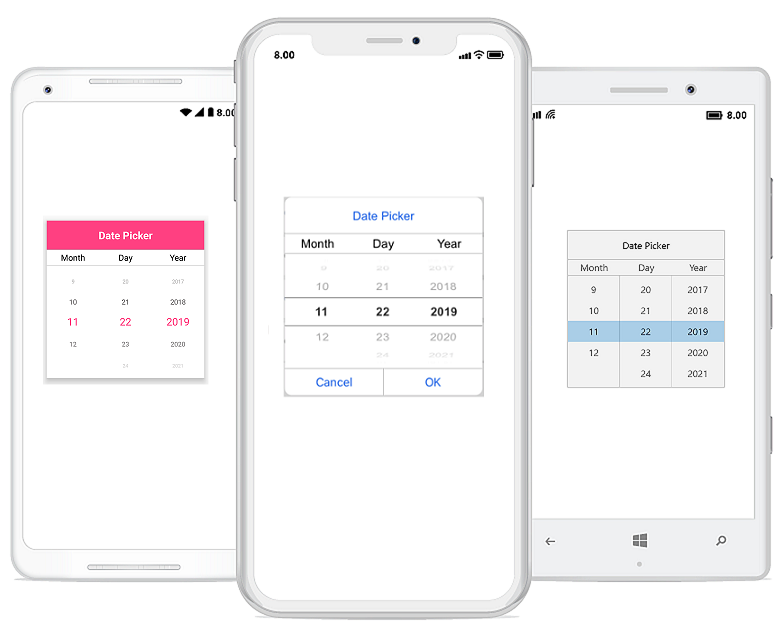
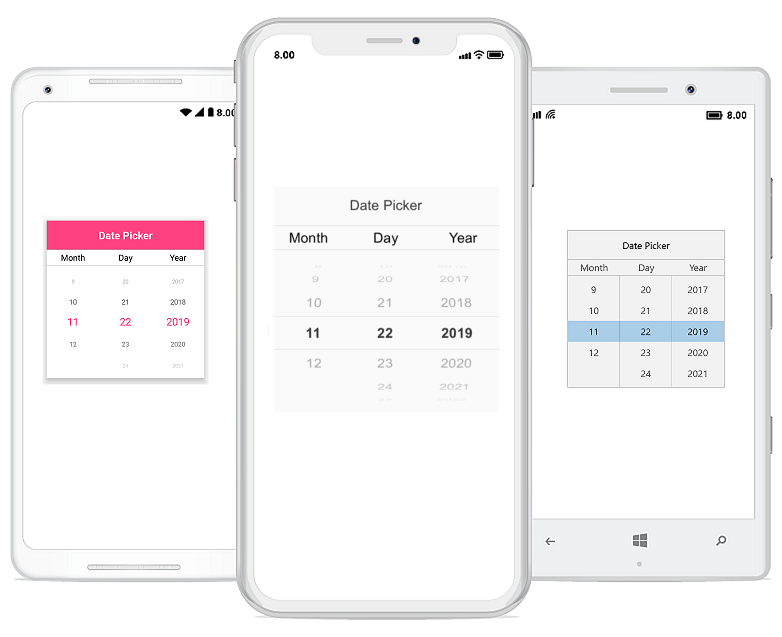
changes have committed

diff --git a/Xamarin/DatePicker/Overview.md b/Xamarin/DatePicker/Overview.md
@@ -11,26 +11,12 @@ documentation: ug
 
 The DatePicker control allows you to select a date among a list of dates. This control can be opened as dialog. Its rich feature set includes functionalities such as date range, date format, header, footer, and default validation buttons.
 
+![OverView of SfDatePicker](images/GettingStatrted_DatePicker.png)
+
 ## Key features of SfDatePicker
 
-* MinimumDate — This is the lowest date selectable for this DatePicker. The default value of the MinimumDate is the first day of 25 years prior to the current year.
-* MaximumDate — This is the highest date selectable for this DatePicker. The default value of the MaximumDate is the first day of 25 years above the current year.
-* Date — This is a selected date. The default value of the Date is the current date.
-* Format — The format of the date to display to the user. It is standard or custom. The default date format is "DateFormat.M_d_yyyy".
-* SelectedItemTextColor — The color used to display the selected date.
-* SelectedItemFontAttribute — The user can apply different font attributes to the selected date using this property. The default value of the SelectedItemFontAttribute is "None".
-* SelectedItemFontFamily — The user can apply different font family to the selected date using this property. The default value of the SelectedItemFontFamily is "null".
-* SelectedItemFontSize — The user can apply different font sizes to the selected date using this property. The default value of the SelectedItemFontSize for android is "20.0d", with other platforms being "18.0d".
-* SelectionBackgroundColor — The user can apply different background colors to the selected item using this property.
-* UnselectedItemTextColor — The color used to display the unselected dates.
-* UnselectedItemFontAttribute — The user can apply different font attributes to the unselected dates using this property. The default value of the UnselectedItemFontAttribute is "None".
-* UnselectedItemFontFamily — The user can apply different font family to the unselected dates using this property. The default value of the UnselectedItemFontFamily is "null".
-* UnselectedItemFontSize — The user can apply different font sizes to the unselected dates using this property. The default value of the UnselectedItemFontSize for android is "16.0d", with other platforms being "18.0d".
-* Header customization — Complete customization options for the header such as background color, text color, font size, font attribute, and font family.
-* Footer customization — Complete customization options for the footer's OK and Cancel buttons such as background color, and text color.
-* Column header customization — Complete customization options for the column header such as background color, text color, font size, font attribute, and font family.
-* PickerMode — DatePicker can be rendered as a dialog. Default value of the PickerMode property is "Default".
+* Provides customization for header, footer, column header, color, and font.
+* Provides the date restriction support.
+* Provides the support for the format of the date to be displayed.
+* Provides the support for the DatePicker in dialog.
 
-The following screenshot illustrates picker’s color selection. 
-
-![OverView of SfDatePicker](images/GettingStatrted_DatePicker.png)

diff --git a/Xamarin/TimePicker/Overview.md b/Xamarin/TimePicker/Overview.md
@@ -11,26 +11,12 @@ documentation: ug
 
 The TimePicker control allows you to select a list of time. This control can be opened as dialog. Its rich feature set includes functionalities such as time format, header, footer, and default validation buttons.
 
+![OverView of SfTimePicker](images/GettingStarted_TimePicker.png)
+
 ## Key features of SfTimePicker
 
+* Provides customization for header, footer, column header, color, and font.
+* Provides the support for an interval between hours, minutes, and seconds.
+* Provides the support for the format of the time to be displayed.
+* Provides the support for the TimePicker in dialog.
 
-* Time — This is a selected time. The default value of the Time is the current time.
-* Format — The format of the time to display to the user. It is standard or custom. The default time format is "TimeFormat.HH_mm_ss".
-* HourInterval — Provides interval between hours.
-* MinuteInterval — Provides interval between minutes.
-* SecondInterval — Provides interval between seconds.
-* SelectedItemTextColor — The color used to display the selected time. 
-* SelectedItemFontAttribute — The user can apply different font attributes to the selected time using this property. The default value of the SelectedItemFontAttribute is "None".
-* SelectedItemFontFamily — The user can apply different font family to the selected time using this property. The default value of the SelectedItemFontFamily is "Null".
-* SelectedItemFontSize — The user can apply different font sizes to the selected time using this property. The default value of the SelectedItemFontSize for android is "20.0d", with other platforms being "18.0d".
-* SelectionBackgroundColor — The user can apply different background colors to the selected time using this property.
-* UnselectedItemTextColor — The color used to display the unselected items.
-* UnselectedItemFontAttribute — The user can apply different font attributes to the unselected times using this property. The default value of the UnselectedItemFontAttribute is "None".
-* UnselectedItemFontFamily — The user can apply different font family to the unselected times using this property. The default value of the UnselectedItemFontFamily is "null".
-* UnselectedItemFontSize — The user can apply different font sizes to the unselected times using this property. The default value of the UnselectedItemFontSize for android is 16.0d, with other platforms being 18.0d.
-* Header customization — Complete customization options for the header such as background color, text color, font size, font attribute, and font family.
-* Footer customization — Complete customization options for the footer's OK and Cancel buttons such as background color and text color.
-* Column header customization — Complete customization options for the column header, such as background color, text color, font size, font attribute, and font family.
-* PickerMode — TimePicker can be rendered as a dialog. Default value of the PickerMode property is "Default".
-
-![OverView of SfTimePicker](images/GettingStarted_TimePicker.png)
